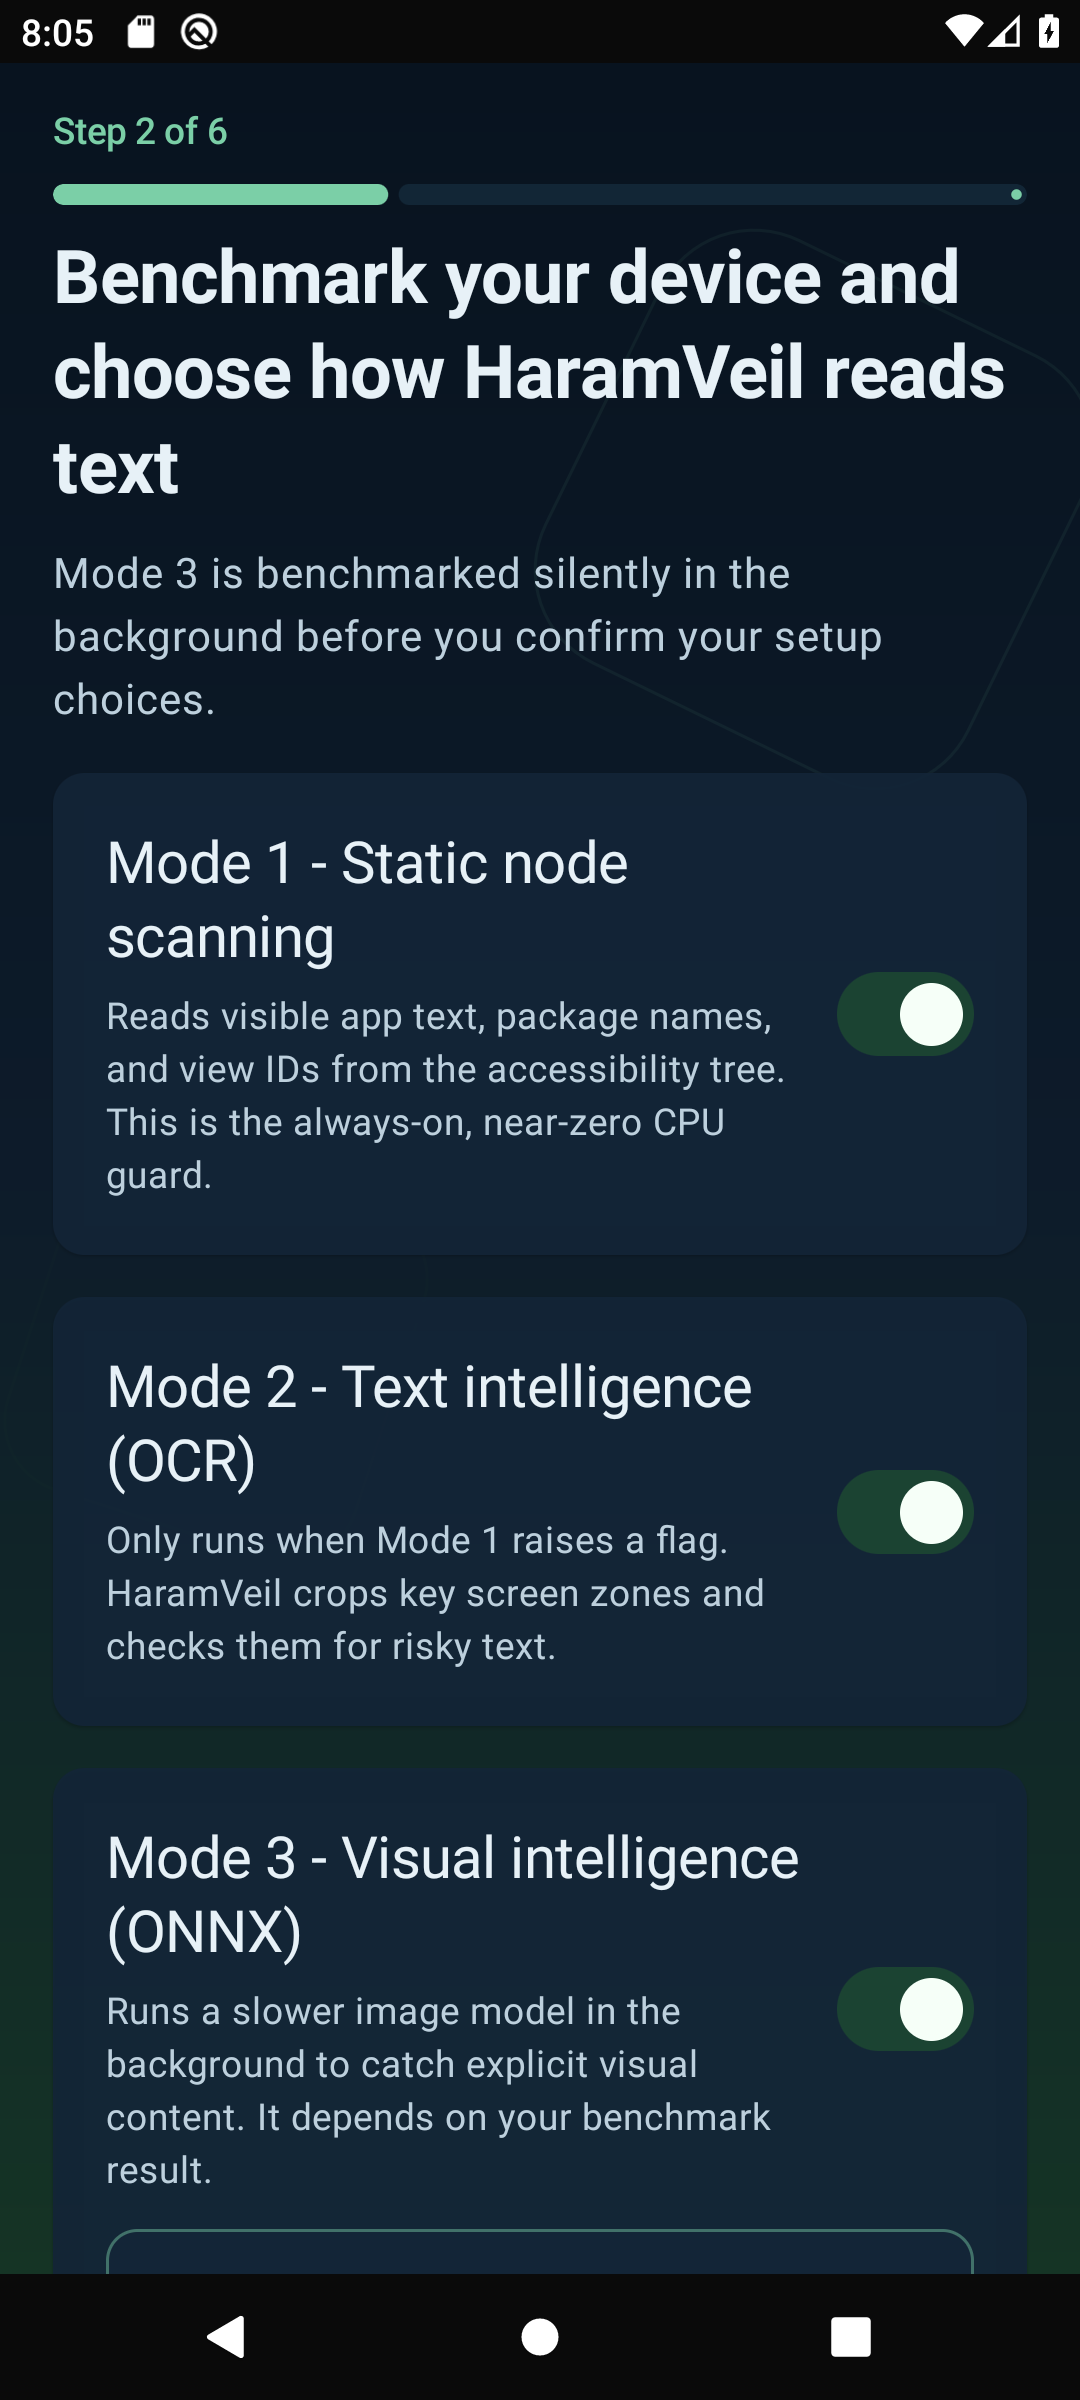
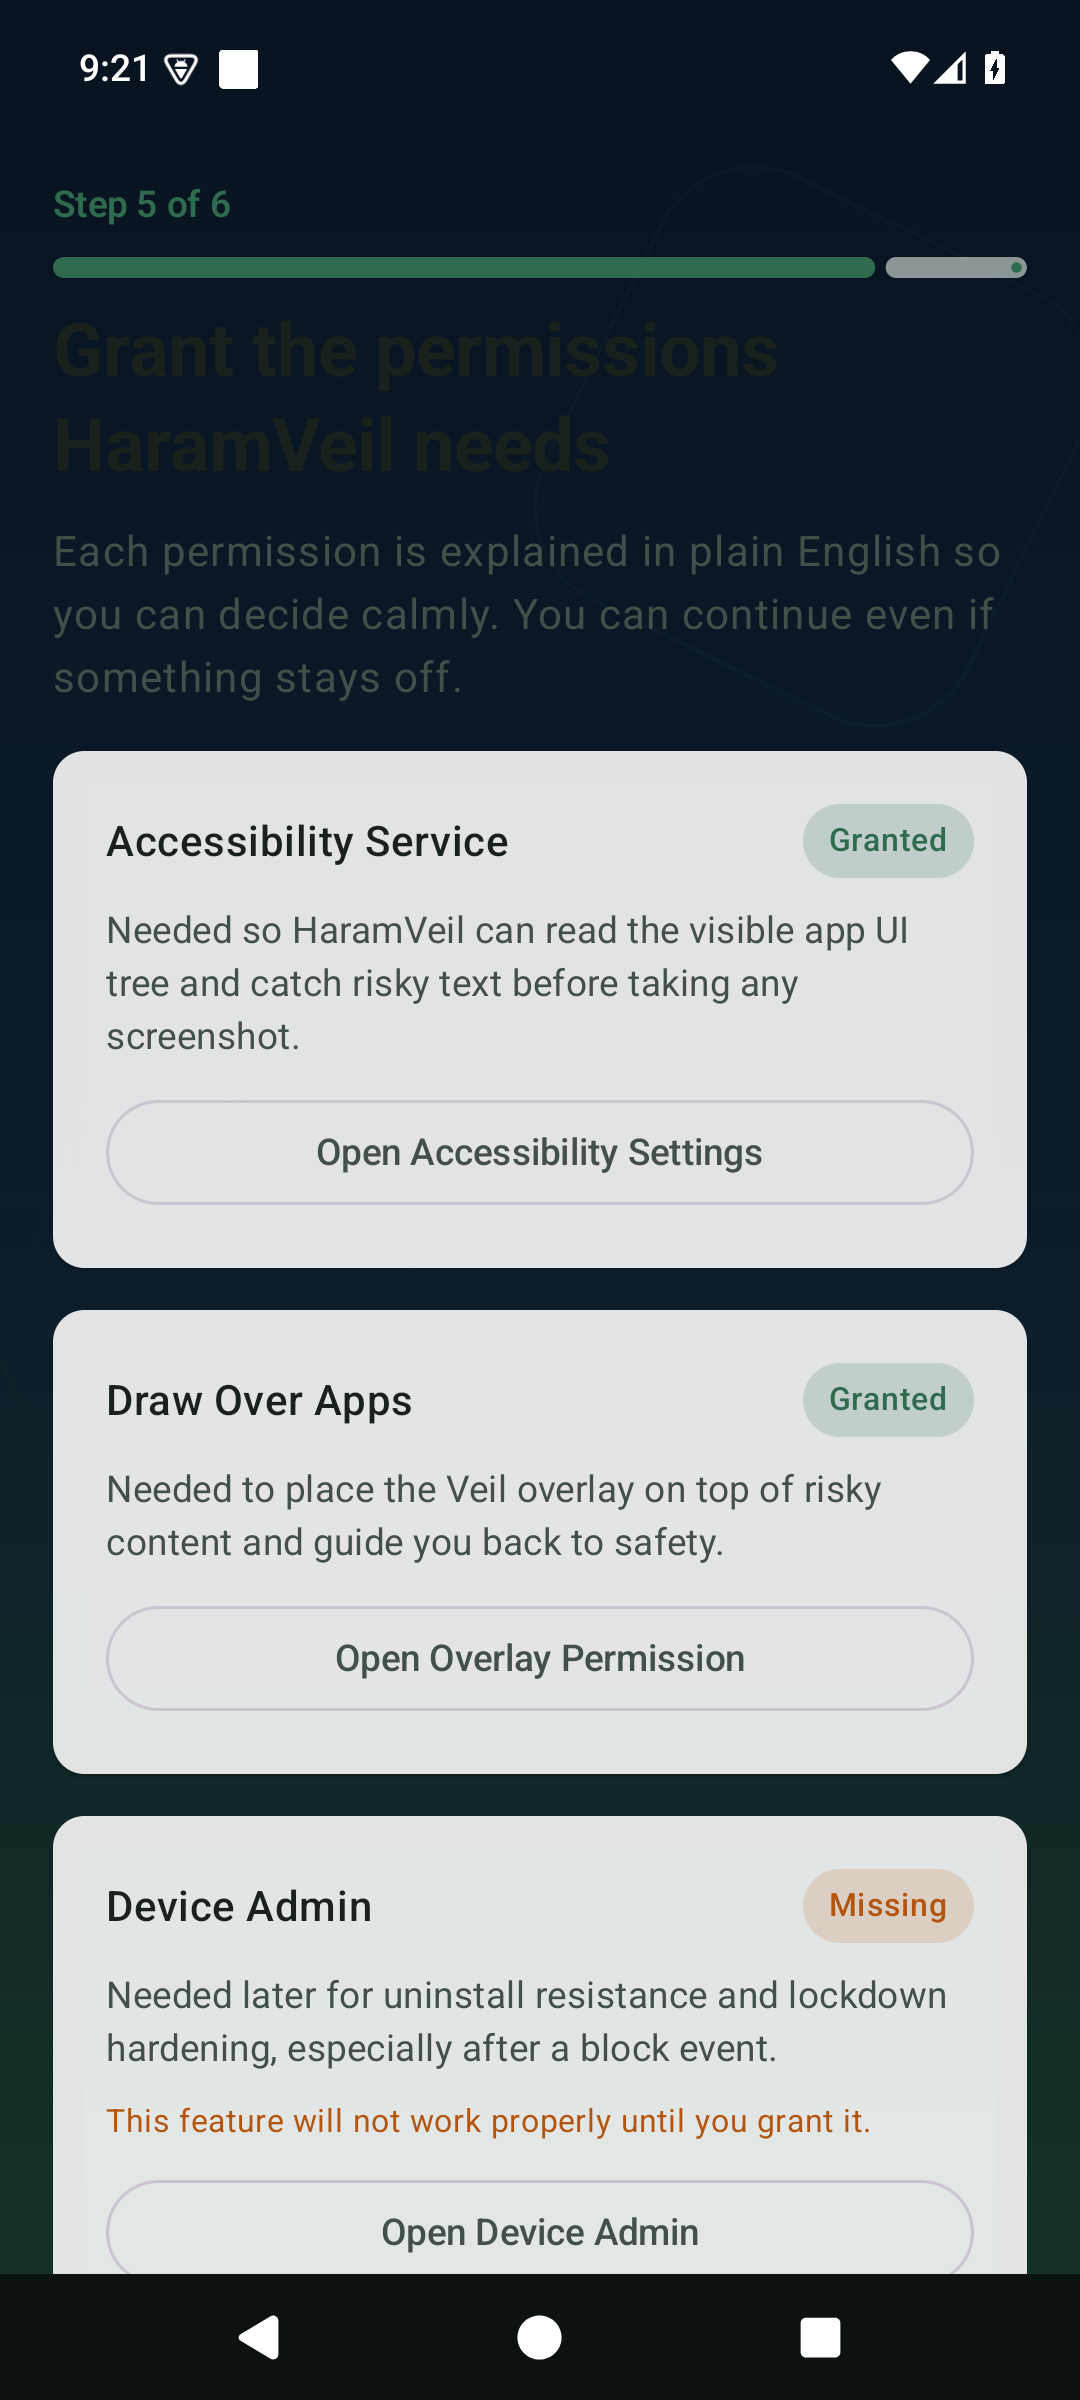
fix(onboarding): unbrick step-2 benchmark; real store screenshots; stale copy
Root-caused by driving the app on a live Android 15 emulator:

- THE blocker: on a fresh install, loadInitialState seeded
  benchmark.isRunning = true (interpreting 'no snapshot' as 'running'),
  then runBenchmark()'s own guard
  (if (_uiState.value.benchmark.isRunning) return) bailed instantly -
  the benchmark never ran, the spinner spun forever, Confirm Choices
  stayed disabled and onboarding could never be completed. isRunning
  now starts false; runBenchmark flips it when the measurement starts.
  Verified live: benchmark runs, logs 'single-run 137ms', wall time
  4.8s incl. first-run JIT, verdict 'Your device can run the 320
  (Bundled) model.', onboarding completes end to end.
- replaced the mock fastlane phoneScreenshots with real captures from
  the running app (dashboard, permissions, test-protection screen)
- stale FOSS OCR copy removed ('will download ~15MB' - the model ships
  bundled now, no download, no INTERNET permission)

Also confirmed working live: PIN gate, security questions,
accessibility + overlay grants, dashboard with 3 modes live, service
heartbeat. PIN keypad digits are intentionally unlabeled in the
accessibility tree (privacy choice), not a bug.

diff --git a/app/src/main/java/com/haramveil/onboarding/OnboardingFlow.kt b/app/src/main/java/com/haramveil/onboarding/OnboardingFlow.kt
@@ -475,14 +475,14 @@ private fun CapabilityBenchmarkScreen(
                     isRecommended = uiState.isDeGoogledDevice,
                     title = "FOSS RapidOCR via ONNX",
                     description = "Fully open approach with on-device OCR models and no Play Services dependency.",
-                    privacyNote = "Best for de-Googled or privacy-first setups. Model will download in the background on your approval.",
+                    privacyNote = "Best for de-Googled or privacy-first setups. The OCR model ships bundled and works fully offline.",
                     onSelected = onTextEngineSelected,
                 )
 
                 if (uiState.selectedTextEngine == TextRecognitionEngine.FOSS_ONNX) {
                     NoticeCard(
                         title = "FOSS OCR note",
-                        body = "Model will download in background (~15MB). Internet permission will be removed after download.",
+                        body = "The English OCR model and dictionary ship inside the app — no download, no INTERNET permission, fully offline.",
                         accentColor = MaterialTheme.colorScheme.secondary,
                     )
                 }

diff --git a/app/src/main/java/com/haramveil/onboarding/OnboardingViewModel.kt b/app/src/main/java/com/haramveil/onboarding/OnboardingViewModel.kt
@@ -309,9 +309,13 @@ class OnboardingViewModel(
             val snapshot = repository.readSnapshot()
             val playServicesAvailable = isPackageInstalled("com.google.android.gms")
             val installedApps = loadInstalledApps()
-            val benchmarkState = snapshot.benchmarkResult.toUiState(
-                isRunning = snapshot.benchmarkResult == null,
-            )
+            // isRunning must start FALSE: the runBenchmark() call below is guarded by
+            // `if (_uiState.value.benchmark.isRunning) return`, so seeding it with true
+            // (the old `snapshot.benchmarkResult == null` interpretation) made the guard
+            // bail instantly — the benchmark never ran and the spinner spun forever on
+            // every fresh install, bricking onboarding at step 2. runBenchmark() flips
+            // isRunning to true itself when the measurement actually starts.
+            val benchmarkState = snapshot.benchmarkResult.toUiState(isRunning = false)
 
             val supportedModel = snapshot.benchmarkResult?.supportedModel
             val defaultVisualModel = snapshot.selectedVisualModel ?: supportedModel
